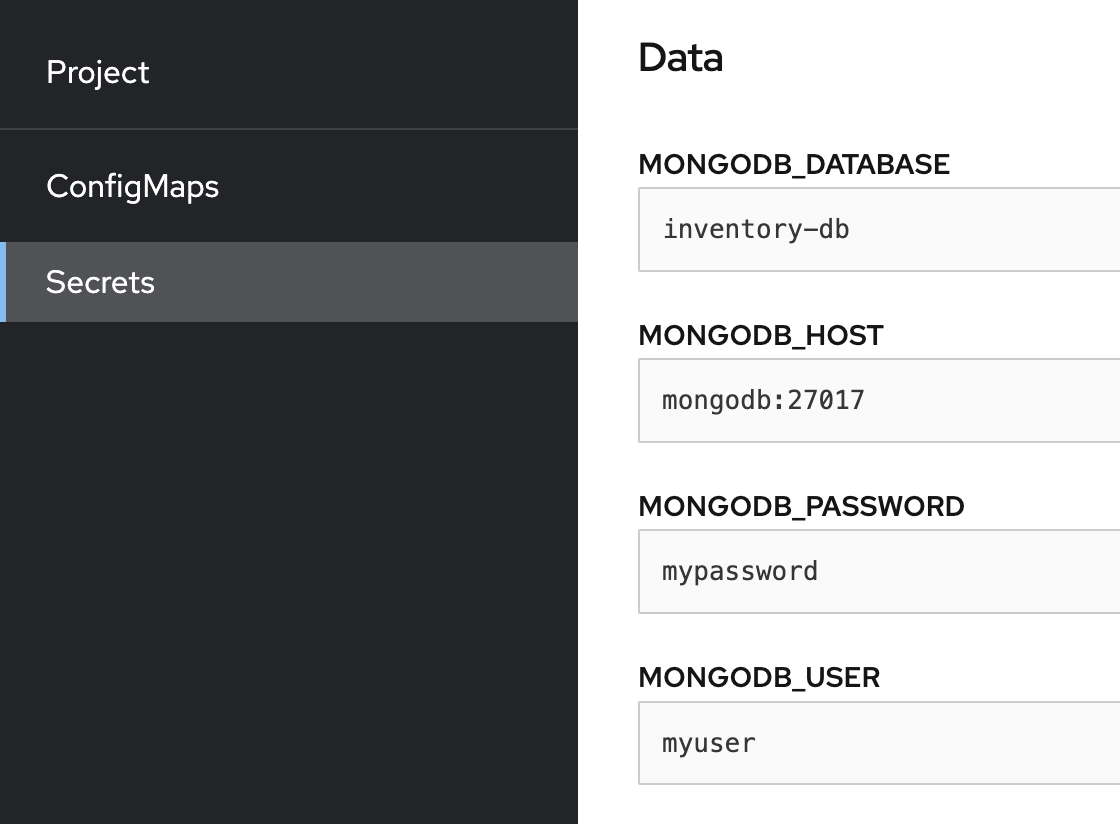
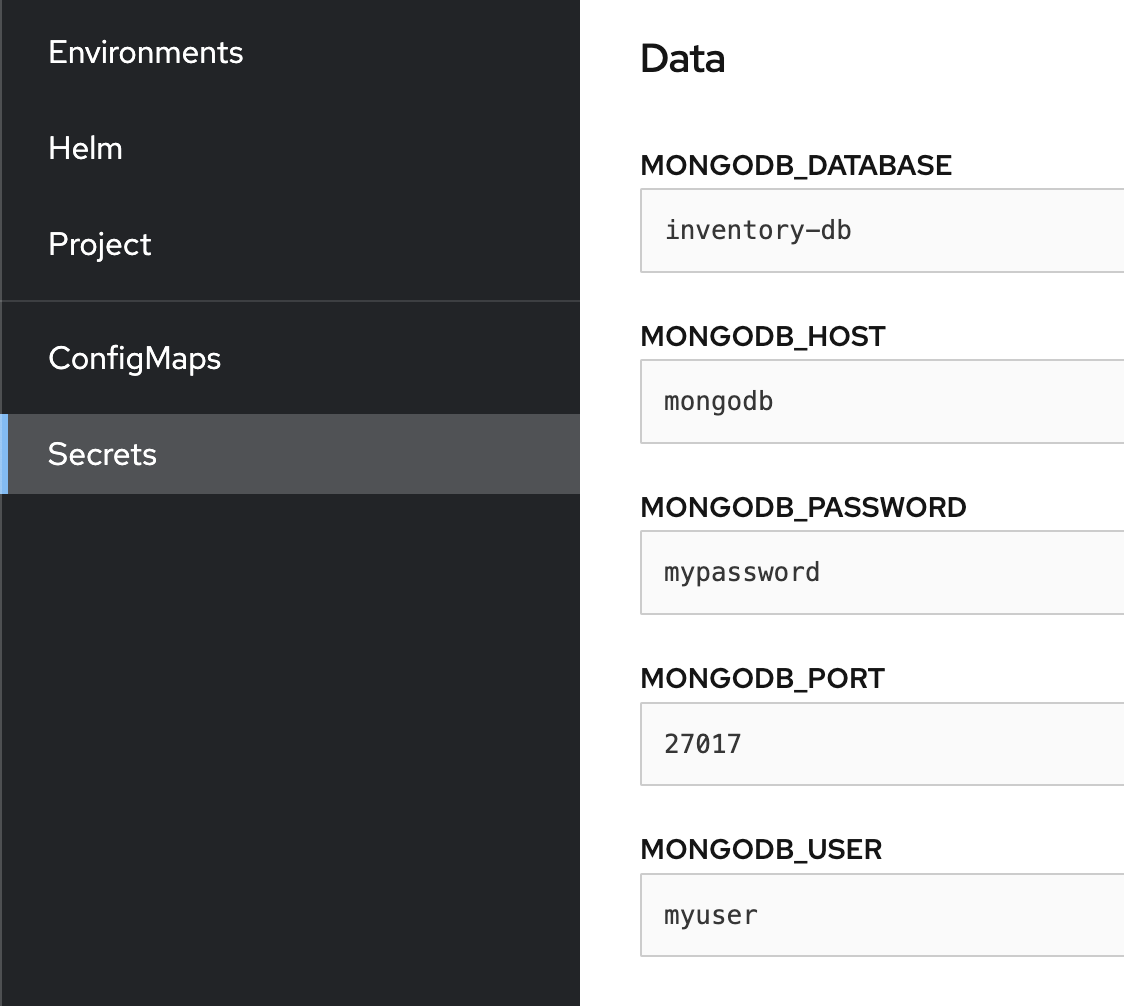
Updated mongodb doc

diff --git a/docs/developer-advanced-1/database-with-mongodb.md b/docs/developer-advanced-1/database-with-mongodb.md
@@ -7,6 +7,9 @@ title: Database with MongoDB
 ### Create a MongoDB instance
 
 === "On IBM Cloud"
+    !!! warning
+        The IBM Cloud service enforces SSL certificates usage to access the instance, however this is not covered in this tutorial, you can find the documentation for it [here](https://cloud.ibm.com/docs/databases-for-mongodb?topic=databases-for-mongodb-mongodb-external-app).
+
     Provision a MongoDB instance using the **Databases for MongoDB** service on IBM Cloud.
 
     - Log into the IBM Cloud console and look for the Databases for MongoDB service.
@@ -19,7 +22,7 @@ title: Database with MongoDB
       The service credential should contain informations to login to the instance. We will look for the database, the hostname, the username, the password and a base64 encoded certificate.  
       Decode the certificate, and create an OpenShift secret holding these values :
       ```bash
-      oc create secret generic --from-literal=MONGODB_HOST=<HOST> --from-literal=MONGODB_USER=<USER> --from-literal=MONGODB_DATABASE=<DATABASE> --from-literal=MONGODB_PASSWORD=<PASSWORD> --from-literal=MONGODB_CERT=<DECODED_CERT> mongodb-access
+      oc create secret generic --from-literal=MONGODB_HOST=<HOST> --from-literal=MONGODB_PORT=<PORT> --from-literal=MONGODB_USER=<USER> --from-literal=MONGODB_DATABASE=<DATABASE> --from-literal=MONGODB_PASSWORD=<PASSWORD> --from-literal=MONGODB_CERT=<DECODED_CERT> mongodb-access
       ```
       You can also do this from the OpenShift console :
     ![MongoDB IBM Cloud secret](../images/database-with-mongodb/secret-creation-openshift.png)
@@ -55,7 +58,7 @@ title: Database with MongoDB
     - The Helm chart creates a secret holding MongoDB passwords, for consistency of this tutorial we will be creating another secret holding the same information, formatted in another way.  
       Run the following command :
       ```bash
-      $ oc create secret generic --from-literal=MONGODB_HOST=mongodb:27017 --from-literal=MONGODB_USER=myuser --from-literal=MONGODB_PASSWORD=mypassword --from-literal=MONGODB_DATABASE=inventory-db mongodb-access
+      $ oc create secret generic --from-literal=MONGODB_HOST=mongodb --from-literal=MONGODB_PORT=27017 --from-literal=MONGODB_USER=myuser --from-literal=MONGODB_PASSWORD=mypassword --from-literal=MONGODB_DATABASE=inventory-db mongodb-access
       ```
       You should see the created secret `mongodb-access` on your OpenShift console :
     ![MongoDB access secret](../images/database-with-mongodb/mongodbopenshiftsecret.png)
@@ -65,7 +68,7 @@ title: Database with MongoDB
 
       Login to your OpenShift cluster and create a secret using the following command:
       ```bash
-      $ oc create secret generic --from-literal=MONGODB_HOST=<HOST> --from-literal=MONGODB_USER=<USER> --from-literal=MONGODB_PASSWORD=<PASSWORD> --from-literal=MONGODB_DATABASE=<DATABASE> mongodb-access
+      $ oc create secret generic --from-literal=MONGODB_HOST=<HOST> --from-literal=MONGODB_PORT=<PORT> --from-literal=MONGODB_USER=<USER> --from-literal=MONGODB_PASSWORD=<PASSWORD> --from-literal=MONGODB_DATABASE=<DATABASE> mongodb-access
       ```
       Fill out the placeholders `<HOST>`, `<USER>`, `<PASSWORD>` and `<DATABASE>` with your own MongoDB instance's credentials.
 
@@ -113,16 +116,54 @@ If you are starting from the solution, use the following steps to enable the Clo
  spring:
    data:
     mongodb:
-      username: "${MONGO_USERNAME:<USERNAME>}"
-      password: "${MONGO_PASSWORD:<PASSWORD>}"
-      database: "${MONGO_DATABASE:<DATABASE>}"
-      authentication-database: "${MONGO_DATABASE:<DATABASE>}"
-      port: "${MONGO_PORT:<PORT>}"
-      host: "${MONGO_HOST:<HOST>}"
+      username: "${MONGODB_USERNAME:<USERNAME>}"
+      password: "${MONGODB_PASSWORD:<PASSWORD>}"
+      database: "${MONGODB_DATABASE:<DATABASE>}"
+      authentication-database: "${MONGODB_DATABASE:<DATABASE>}"
+      port: "${MONGODB_PORT:<PORT>}"
+      host: "${MONGODB_HOST:<HOST>}"
    autoconfigure:
     exclude: org.springframework.boot.autoconfigure.jdbc.DataSourceAutoConfiguration
  ```
    Replace the placeholders with your database instance values.
+
+**Update the configuration values in the Helm chart**
+
+ - Open the `values.yaml` file and add the following value : 
+
+ ```yaml title="chart/base/values.yaml"
+ mongodbAccess=mongodb-access
+ ```
+ - Open the `deployment.yaml` file and add the following environment variables :
+
+ ```yaml title="chart/base/templates/deployment.yaml"
+ env:
+   - name: MONGODB_USERNAME
+     valueFrom:
+       secretKeyRef:
+         name: {{ .Values.mongodbAccess | quote }}
+         key: MONGODB_USERNAME
+   - name: MONGODB_PASSWORD
+     valueFrom:
+       secretKeyRef:
+         name: {{ .Values.mongodbAccess | quote }}
+         key: MONGODB_PASSWORD
+   - name: MONGODB_DATABASE
+     valueFrom:
+       secretKeyRef:
+         name: {{ .Values.mongodbAccess | quote }}
+         key: MONGODB_DATABASE
+   - name: MONGODB_PORT
+     valueFrom:
+       secretKeyRef:
+         name: {{ .Values.mongodbAccess | quote }}
+         key: MONGODB_PORT
+   - name: MONGODB_HOST
+     valueFrom:
+       secretKeyRef:
+         name: {{ .Values.mongodbAccess | quote }}
+         key: MONGODB_HOST
+ ```
 
 **Update project files**
 
